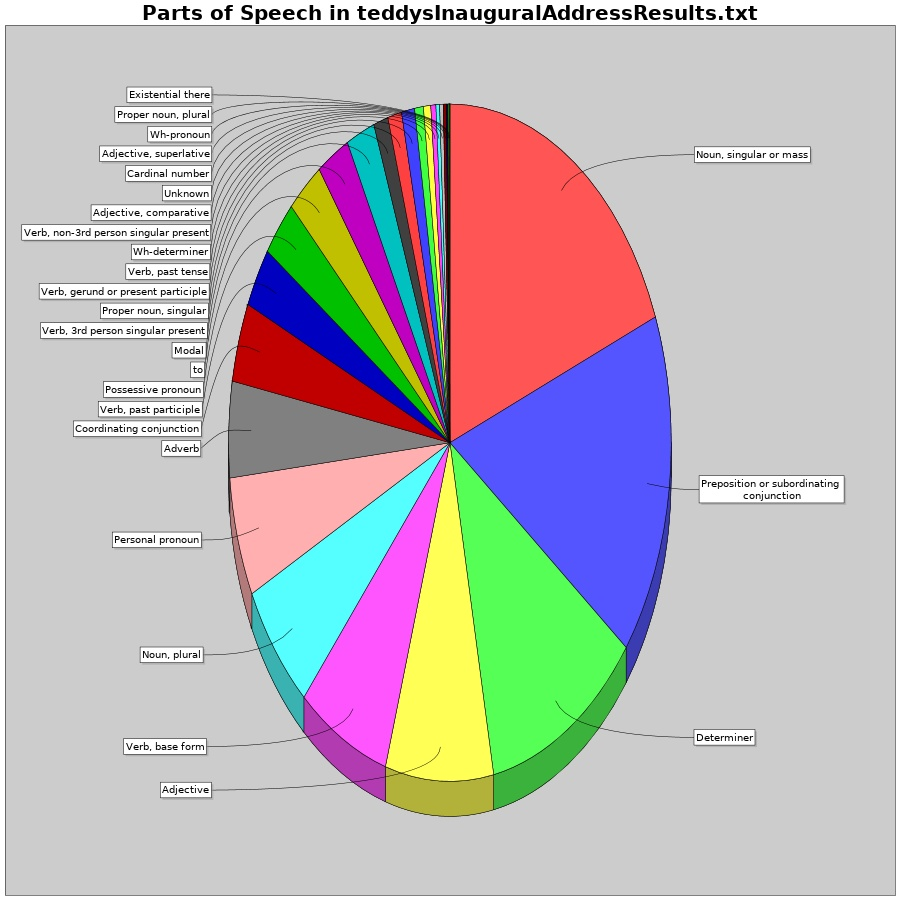
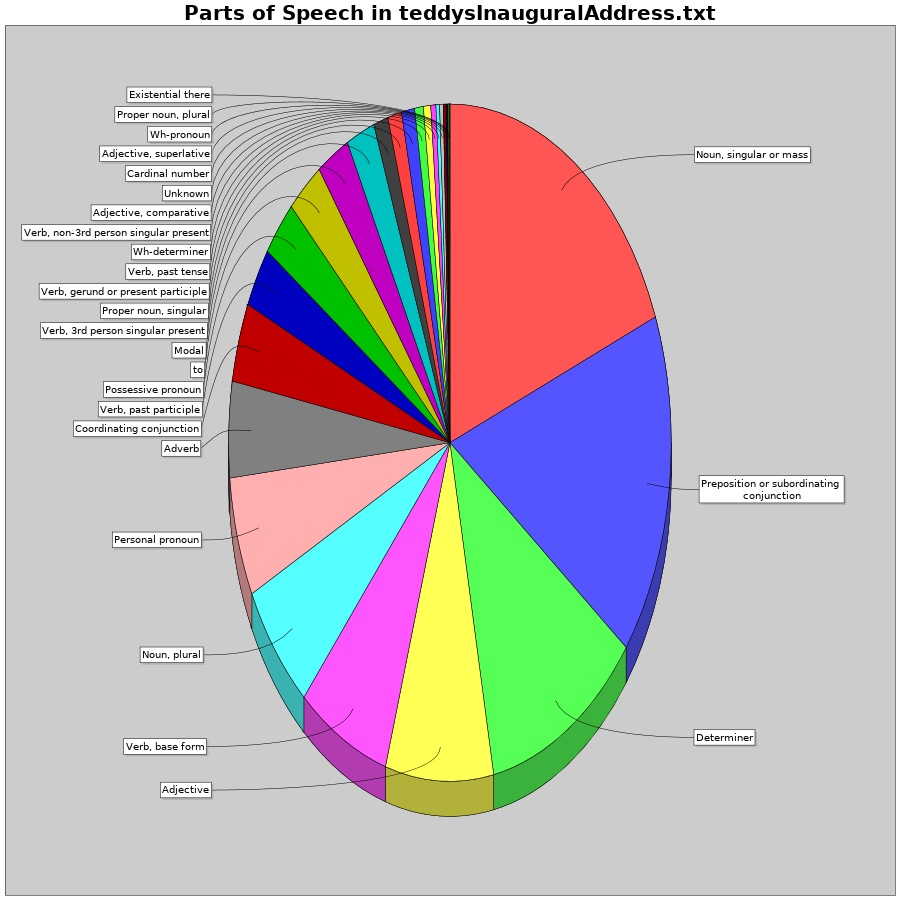
Some refactoring and cleaning

Changed region(s): [[0.1556, 0.0, 0.84, 0.0311]]

diff --git a/src/kam/hazelrigg/Main.java b/src/kam/hazelrigg/Main.java
@@ -14,25 +14,21 @@ import java.util.stream.Collectors;
 
 public class Main {
 
-    private static String fileName;
+    final private static String fileName = getFileName();
+    private static String resultsFile = "";
 
     public static void main(String[] args) {
-        //fileName = getFileName();
-
-        fileName = "teddysInauguralAddress.txt";
-        // getFileName returns null if file does not exist
 
         if (fileName != null) {
+            resultsFile = fileName.substring(0, fileName.length() - 4) + "Results.txt";
 
             if (hasResults()) {
-                fileName = fileName.substring(0, fileName.length() - 4) + "Results.txt";
+                System.out.println("[NOTE] " + fileName + " already has results");
                 readCount();
             } else {
                 Map<String, Integer> pos = sortByValue(partOfSpeech());
 
                 writeCount(wordCount(), pos);
-
-                //fileName = fileName.substring(0, fileName.length() - 4) + "Results.txt";
                 readCount();
                 makeGraph(pos);
             }
@@ -41,16 +37,6 @@ public class Main {
             System.out.println("[Error - Main] File not found/is not .txt");
         }
 
-    }
-
-    private static boolean hasResults() {
-        try {
-            File file = new File(fileName.substring(0, fileName.length() - 4) + "Results.txt");
-            if (file.exists() && !file.isDirectory()) return true;
-        } catch (NullPointerException nullpointer) {
-            return false;
-        }
-        return false;
     }
 
     private static String getFileName() {
@@ -62,28 +48,33 @@ public class Main {
 
         if (input.length() < 4) return null;
         if (!input.endsWith(".txt")) return null;
+        return input;
+    }
 
-        File file = new File(input.substring(0, input.length() - 4) + "Results.txt");
+    private static boolean hasResults() {
+        // Find out if a file already has a results file
 
-        // File.isFile will return true if a Results file exists
-        if (file.isFile()) {
-            return input.substring(0, input.length() - 4) + "Results.txt";
-        } else {
-            return input;
+        try {
+            File file = new File(resultsFile);
+            System.out.println("[FILE] " + resultsFile);
+            if (file.exists() && !file.isDirectory()) return true;
+        } catch (NullPointerException nullptr) {
+            return false;
         }
-
+        return false;
     }
 
     private static void readCount() {
         // Read Results file for counts
 
         try {
-            Scanner in = new Scanner(new FileReader(fileName));
+            Scanner in = new Scanner(new FileReader(resultsFile));
             System.out.println("\n----[ Using results from " + fileName + " ]----\n");
 
             while (in.hasNext()) {
                 System.out.println(in.nextLine());
             }
+
             in.close();
         } catch (FileNotFoundException notFound) {
             System.out.println("[Error - readCount] File not found: " + notFound);
@@ -94,17 +85,18 @@ public class Main {
     private static void writeCount(Map<String, Integer> wordFreq, Map<String, Integer> wordType) {
         // Write the word counts to a file
 
-        //String outFile = fileName.substring(0, fileName.length() - 4) + "Results.txt";
         try {
-            fileName = fileName.substring(0, fileName.length() - 4) + "Results.txt";
-            BufferedWriter out = new BufferedWriter(new FileWriter(fileName));
+            BufferedWriter out = new BufferedWriter(new FileWriter(resultsFile));
+            System.out.println("[WRITE] " + resultsFile);
 
+            // Write word frequency
             for (String word : wordFreq.keySet()) {
                 out.write(word + ", " + wordFreq.get(word) + "\n");
             }
-            out.write("\n");
-            // Write part of sentence tags
 
+            out.write("\n");
+
+            // Write POS tags to the bottom of the file
             for (String type : wordType.keySet()) {
                 out.write(type + ", " + wordType.get(type) + "\n");
             }
@@ -115,14 +107,68 @@ public class Main {
         }
     }
 
+
+    private static Map<String, Integer> wordCount() {
+        // Count the frequency of a words appearance
+
+        try {
+            Scanner in = new Scanner(new FileReader(fileName));
+
+            Map<String, Integer> wordFreq = new HashMap<>();
+
+            String stopWords = "this but are on that have the of to and a an in is it for ";
+
+            while (in.hasNext()) {
+                // Split line into separate words
+                String[] line = in.nextLine().split("\\s");
+
+                for (String word : line) {
+                    word = word.toLowerCase();
+
+                    if (stopWords.contains(word + " ")) continue; // If the word is a stop word skip over it
+
+                    // Remove punctuation from each word
+                    word = word.replaceAll("\\W", "");
+
+                    wordFreq = addFreq(wordFreq, word);
+                }
+            }
+
+            in.close();
+
+            wordFreq = sortByValue(wordFreq); // Sort map wordFreq before returning to make results easier to understand
+            return wordFreq;
+
+        } catch (FileNotFoundException notFound) {
+            System.out.println("[Error - wordCount] File not found: " + notFound);
+            return null;
+        }
+    }
+
+    private static Map<String, Integer> addFreq(Map<String, Integer> map, String key) {
+        // Add keys into map with a count
+
+        if (map.containsKey(key))
+            map.put(key, map.get(key) + 1);
+        else
+            map.put(key, 1);
+        return map;
+    }
+
+    // Incorporate partOfSpeech into wordCount so that only one pass is being made over file
+
     private static Map<String, Integer> partOfSpeech() {
         // Count the frequency of POS
 
         try {
             Map<String, String> posAbbrev = new HashMap<>();
+            Map<String, Integer> posCounts = new HashMap<>();
 
             Scanner in = new Scanner(new FileReader(fileName));
             Scanner posAbbrevIn = new Scanner(new FileReader("posAbbreviations.txt"));
+
+            String trainedFile = "models/english-bidirectional-distsim.tagger";
+            MaxentTagger tagger = new MaxentTagger(trainedFile);
 
             // Unabbreviate results for easier understanding
             while (posAbbrevIn.hasNext()) {
@@ -130,18 +176,14 @@ public class Main {
                 posAbbrev.put(line[0].trim(), line[1].trim());
             }
 
-            String trainedFile = "models/english-bidirectional-distsim.tagger";
-            MaxentTagger tagger = new MaxentTagger(trainedFile);
-            Map<String, Integer> partOfSentence = new HashMap<>();
-
             while (in.hasNextLine()) {
                 String[] line = in.nextLine().split("\\s");
 
                 for (String word : line) {
                     word = word.replaceAll("\\W", "");
-                    // Catch words that are only whitespace
-                    if (word.length() == 0) continue;
+                    if (word.length() == 0) continue;  // Catch words that are only whitespace
 
+                    // Tag word with its POS
                     String tagged = tagger.tagString(word);
                     String tagType = tagged.substring(word.length()).replace("_", "")
                             .toLowerCase().trim();
@@ -150,72 +192,19 @@ public class Main {
                     tagType = posAbbrev.get(tagType);
 
                     if (tagType == null) {
+                        System.out.println("[UNKNOWN] " + line[0]);
                         tagType = "Unknown";
                     }
 
-                    if (partOfSentence.containsKey(tagType))
-                        partOfSentence.put(tagType, partOfSentence.get(tagType) + 1);
-                    else partOfSentence.put(tagType, 1);
+                    if (posCounts.containsKey(tagType))
+                        posCounts.put(tagType, posCounts.get(tagType) + 1);
+                    else posCounts.put(tagType, 1);
                 }
             }
+            return posCounts;
 
-            return partOfSentence;
         } catch (IOException ioe) {
             System.out.println("[Error - partOfSpeech] File not found: " + ioe);
-            return null;
-        }
-    }
-
-    private static Map<String, Integer> wordCount() {
-        // Count the frequency of a words appearance
-
-        try {
-            Scanner in = new Scanner(new FileReader(fileName));
-            //MaxentTagger tagger = new MaxentTagger("models/english-left3words-distsim.tagger");
-
-
-            Map<String, Integer> wordFreq = new HashMap<>();
-            //Map<String, Integer> wordType = new HashMap<>();
-
-            String blacklist = "this but are on that have the of to and a an in is it for ";
-
-            while (in.hasNext()) {
-                // Split line into separate words
-                String[] line = in.nextLine().split("\\s");
-
-                for (String word : line) {
-                    word = word.toLowerCase() + " ";
-
-                    //String tag = tagger.tagString(word);
-                    //tag = tag.substring(word.length());
-
-                    // If blacklisted word don't add to count
-                    if (blacklist.contains(word)) continue;
-
-                    // Remove punctuation from each word
-                    word = word.replaceAll("\\W", "");
-
-                    // Check if word has been seen before, if it has then increase its count by 1
-                    if (wordFreq.containsKey(word))
-                        wordFreq.put(word, wordFreq.get(word) + 1);
-                    else wordFreq.put(word, 1);
-
-                    /*
-                    if (wordType.containsKey(tag))
-                        wordType.put(tag, wordType.get(word) + 1);
-                    else wordType.put(tag, 1);
-                    */
-                }
-            }
-
-            in.close();
-            // Sort map wordFreq before returning to make results easier to understand
-            wordFreq = sortByValue(wordFreq);
-
-            return wordFreq;
-
-        } catch (FileNotFoundException notFound) {
-            System.out.println("[Error - wordCount] File not found: " + notFound);
             return null;
         }
     }
@@ -243,15 +232,15 @@ public class Main {
         plot.setBackgroundPaint(new Color(204, 204, 204));
         plot.setLabelBackgroundPaint(new Color(255, 255, 255));
         plot.setStartAngle(90f);
-        plot.setLabelFont(new Font("Ubuntu San Serif", Font.TRUETYPE_FONT, 10));
+        plot.setLabelFont(new Font("Ubuntu San Serif", Font.PLAIN, 10));
         plot.setDepthFactor(0.05f);
 
-        File pieChart = new File(fileName.substring(0, fileName.length() - 4) + ".jpg");
+        File pieChart = new File(resultsFile.replaceAll(".txt", "") + ".jpg");
 
         try {
             ChartUtilities.saveChartAsJPEG(pieChart, chart, 900, 900);
-        } catch (IOException ioexc) {
-            System.out.println("[Error - makeGraph] Failed to make pie chart " + ioexc);
+        } catch (IOException ioe) {
+            System.out.println("[Error - makeGraph] Failed to make pie chart " + ioe);
         }
     }
 

diff --git a/README.md b/README.md
@@ -5,4 +5,4 @@ Will take an input file and then count the number of times each word is found.
 Todo:
 
 - [X] Implement Stanfords NLP library to categorize parts of speech
-- [ ] Implement some form of modeling (Most likely JFreeChart)
+- [X] Implement some form of modeling (Most likely JFreeChart)
